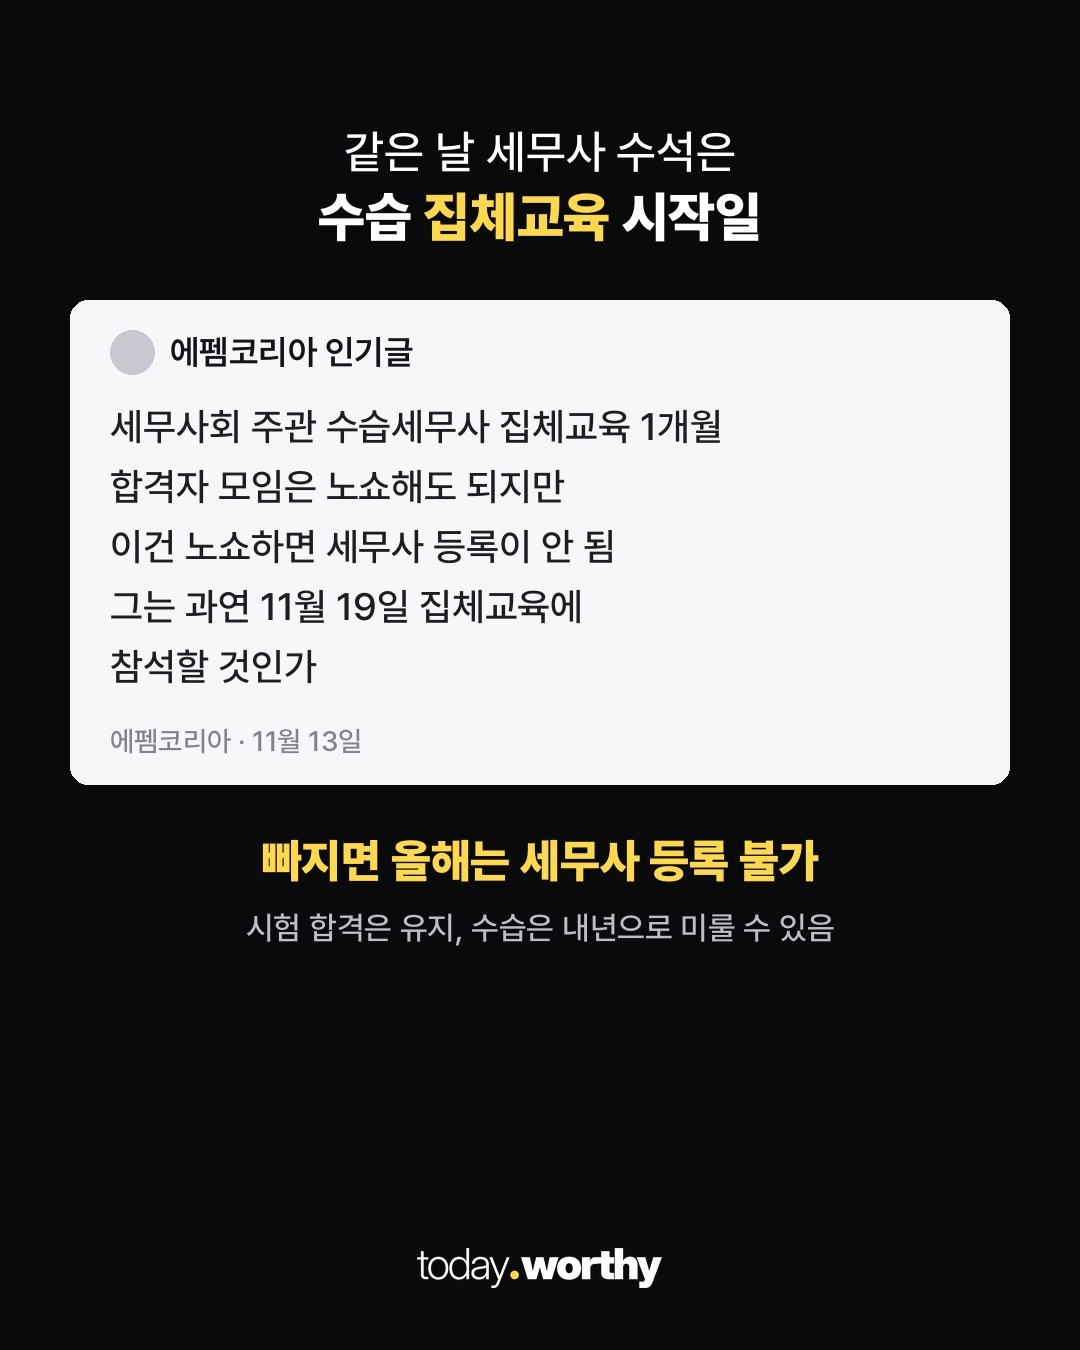
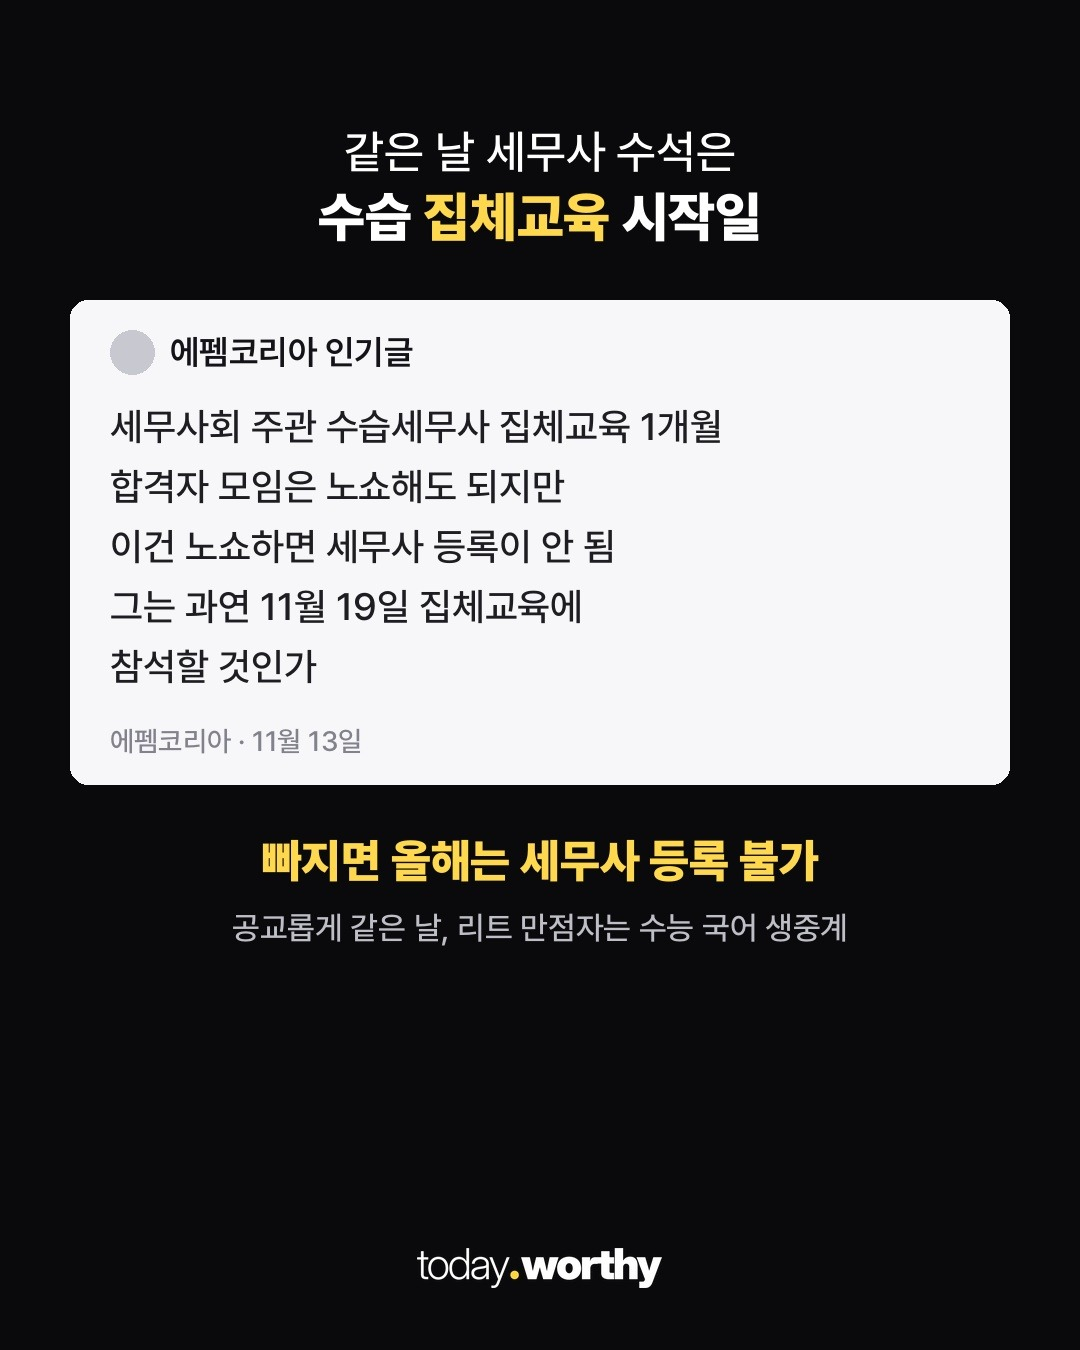
d19: 리트 만점자는 곁다리로

Changed region(s): [[0.2139, 0.6533, 0.7944, 0.7156]]

diff --git a/media/20261113-d19/build_cards.py b/media/20261113-d19/build_cards.py
@@ -38,7 +38,7 @@ frame(("리트 첫 만점자 이진우 · 19일 오전 11시", "수능 국어 '8
 
 frame(("같은 날 세무사 수석은", "수습 '집체교육' 시작일"),
       quote("에펨코리아 인기글", ["세무사회 주관 수습세무사 집체교육 1개월", "합격자 모임은 노쇼해도 되지만", "이건 노쇼하면 세무사 등록이 안 됨", "그는 과연 11월 19일 집체교육에", "참석할 것인가"], "에펨코리아 · 11월 13일"),
-      "빠지면 올해는 세무사 등록 불가", sub="시험 합격은 유지, 수습은 내년으로 미룰 수 있음").save(O / "c03.jpg", quality=95)
+      "빠지면 올해는 세무사 등록 불가", sub="공교롭게 같은 날, 리트 만점자는 수능 국어 생중계").save(O / "c03.jpg", quality=95)
 
 frame(("그런데 커뮤니티엔 이런 글까지", "\"수습 '안 하겠다'고 선언?\""),
       quote("엠봉 이용자 글", ["협회가 조사하려고 불렀는데", "조사 거부하면서 잠수하는 중", "수습? 집체교육?", "그냥 싹 다 안 한다고 선언"], "엠봉 · 11월 13일"),
